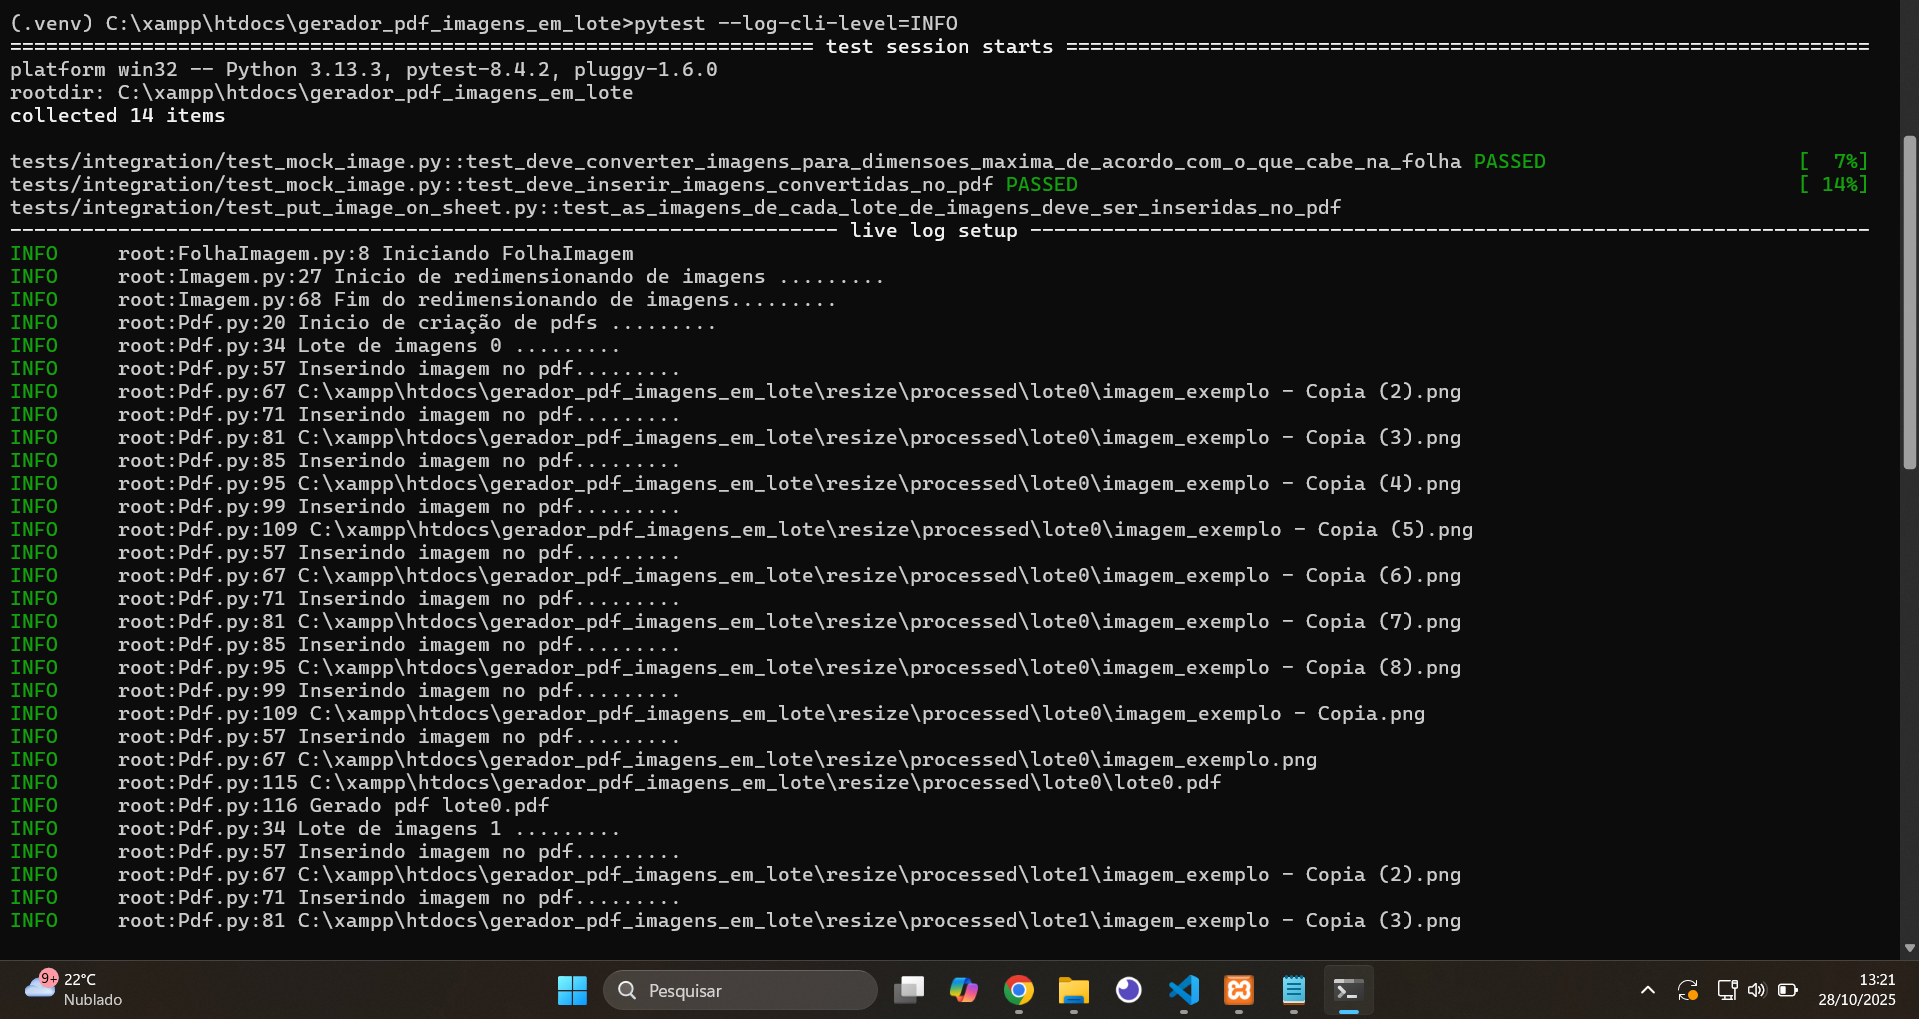
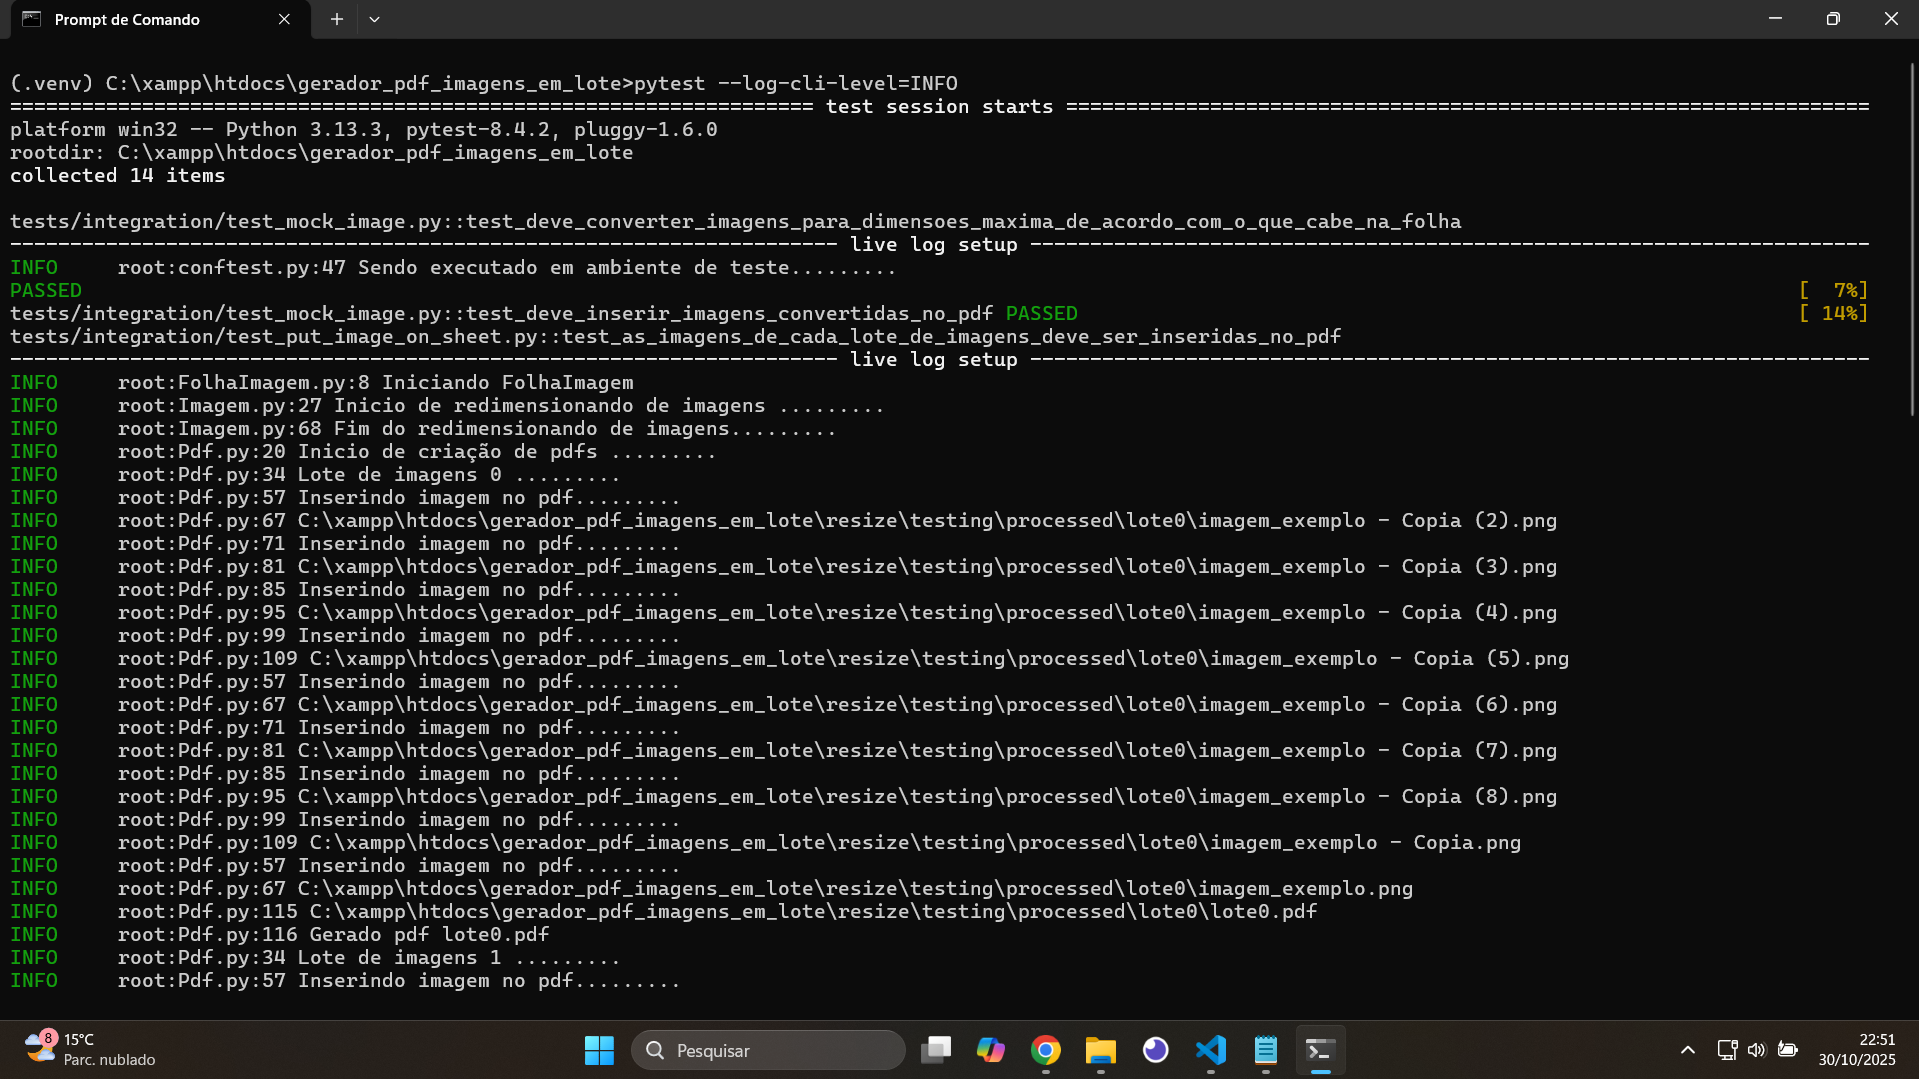
Atualiza imagens `README.md` após restruturação de pastas

diff --git a/README.md b/README.md
@@ -34,7 +34,7 @@ gerador_pdf_imagens_em_lote/
 │
 ├── resize/ 
     ├── production
-        ├── process/                # Onde as imagens são guardadas para serem processadas(redimensionamento e inserção no pdf)
+        ├── received/                # Onde ficam as imagens brutas recebidas pelos clientes que não são modificadas.
         │   ├── lote0/
         │   │   ├── imagem_exemplo.png
         │   │   └── imagem_exemplo - Copia.png
@@ -103,86 +103,26 @@ Os ambientes estão sendo gerenciados por Dynaconf fazendo que ambientes fiquem 
 
 ## Ambiente de desenvolvimento
 
-Ao executar o script com o comando `set ENV_FOR_DYNACONF=development && python processar.py`, o script usará como base a pasta `resize/development`, onde considera que estarão todas imagens para serem processadas e colocadas no pdf. Esta estrutura de pasta não é enviada para o git por padrão. por favor crie a estrutura e salve as imagens de desenvolvimento nas pastas `received/process` para serem processadas conforme detalhes abaixo.
-
-```sh
-
-gerador_pdf_imagens_em_lote/
-│
-├── resize/ 
-    ├── development
-        ├── received/                # Onde ficam as imagens brutas recebidas pelos clientes que não são modificadas.
-        │   ├── lote0/
-        │   │   ├── imagem_exemplo.png
-        │   │   └── imagem_exemplo - Copia.png
-        │   └── lote1/
-        │       ├── imagem_exemplo.png
-        │       └── imagem_exemplo - Copia.png
-        ├── process/                # Onde as imagens são guardadas para serem processadas(redimensionamento e inserção no pdf).
-        │   ├── lote0/
-        │   │   ├── imagem_exemplo.png
-        │   │   └── imagem_exemplo - Copia.png
-        │   └── lote1/
-        │       ├── imagem_exemplo.png
-        │       └── imagem_exemplo - Copia.png
-        ├── processed/              # Onde ficam os resultados finais (PDFs e imagens geradas)
-        │   ├── lote0/
-        │   │   ├── lote0.pdf       # PDF final gerado com as imagens do lote
-        │   │   ├── imagem_exemplo.jpg        # Capturas de tela ou imagens intermediárias de verificação
-        │   │   └── imagem_exemplo - Copia.jpg
-        │   └── lote1/
-        │       ├── lote1.pdf
-        │       ├── imagem_exemplo.jpg
-        │       └── imagem_exemplo - Copia.jpg
-
-```
+Ao executar o script com o comando `set ENV_FOR_DYNACONF=development && python processar.py`, o script usará como base a pasta `resize/development/processed`, onde considera que estarão todas imagens para serem processadas e colocadas no pdf. Esta estrutura de pasta não é enviada para o git por padrão. por favor crie a estrutura e salve as imagens de desenvolvimento nas pastas `received/process` para serem processadas conforme detalhes abaixo.
 
 ## Ambiente de testes
 
 Ao executar os testes com o comnado `pytest`, o ambiente será alterado automaticamente para testing, ou seja, todas as imagens processadas são salvas na pasta `resize/testing/processed`. Porém ao final do teste elas são removidas pela fixture `criar_lotes_imagens` dexando a pasta limpa novamente.
 
-```sh
-
-gerador_pdf_imagens_em_lote/
-│
-├── resize/ 
-    ├── testing
-        ├── received/                # Onde ficam as imagens brutas recebidas pelos clientes que não são modificadas.
-        │   ├── lote0/
-        │   │   ├── imagem_exemplo.png
-        │   │   └── imagem_exemplo - Copia.png
-        │   └── lote1/
-        │       ├── imagem_exemplo.png
-        │       └── imagem_exemplo - Copia.png
-        ├── process/                # Onde as imagens são guardadas para serem processadas(redimensionamento e inserção no pdf).
-        │   ├── lote0/
-        │   │   ├── imagem_exemplo.png
-        │   │   └── imagem_exemplo - Copia.png
-        │   └── lote1/
-        │       ├── imagem_exemplo.png
-        │       └── imagem_exemplo - Copia.png
-        ├── processed/              # Onde ficam os resultados finais (PDFs e imagens geradas)
-        │   ├── lote0/
-        │   │   ├── lote0.pdf       # PDF final gerado com as imagens do lote
-        │   │   ├── imagem_exemplo.jpg        # Capturas de tela ou imagens intermediárias de verificação
-        │   │   └── imagem_exemplo - Copia.jpg
-        │   └── lote1/
-        │       ├── lote1.pdf
-        │       ├── imagem_exemplo.jpg
-        │       └── imagem_exemplo - Copia.jpg
-
-```
 
 ## Ambiente de Produção
 
-Ao executar o script com o comando `set ENV_FOR_DYNACONF=production && python processar.py` o script usará como base a pasta `resize/production` onde devem estar na subpasta `process` todas as imagens dos clientes que serão processadas e colocadas no pdf. Esta pasta não é enviada para o git por padrão, por favor crie a estrutura e salve as imagens dos clientes nas pastas `received/process` para serem processadas conforme detalhe abaixo.
+Ao executar o script com o comando `set ENV_FOR_DYNACONF=production && python processar.py` o script usará como base a pasta `resize/production/processed` onde devem estar na subpasta `process` todas as imagens dos clientes que serão processadas e colocadas no pdf. Esta pasta não é enviada para o git por padrão, por favor crie a estrutura e salve as imagens dos clientes nas pastas `received/process` para serem processadas conforme detalhe abaixo.
+
+## Modelo de pastas
+O modelo de pastas será sempre o mesmo independente do ambiente que está sendo executado. Crie o mesmo modelo para todos os ambientes alterando apenas o nome de uma pasta conforme detalhe abaixo.
 
 ```sh
 
 gerador_pdf_imagens_em_lote/
 │
 ├── resize/ 
-    ├── production
+    ├── production                   # Detalhe : O nome da pasta aqui pode varia dependendo do ambiente que está sendo executado (production,testing ou development)
         ├── received/                # Onde ficam as imagens brutas recebidas pelos clientes que não são modificadas.
         │   ├── lote0/
         │   │   ├── imagem_exemplo.png

diff --git a/resize/README.md b/resize/README.md
@@ -16,7 +16,7 @@ Ao salvar as imagens em grupo de pastas dentro da pasta `process`, automaticamen
 
 Armazena todos os lotes de imagens que foram processadas e inseridas no pdf. Cada pasta contém as imagens e o pdf gerado.
 
-Crie uma pasta chamada `production/process`e salve suas imagens em lote(pastas) dentro da pasta `production/process` confome hierarquia abaixo.
+crie a estrutura abaixo e salve suas imagens em lote(pastas) dentro da pasta `production/process` confome hierarquia abaixo.
 
 ```sh
 
